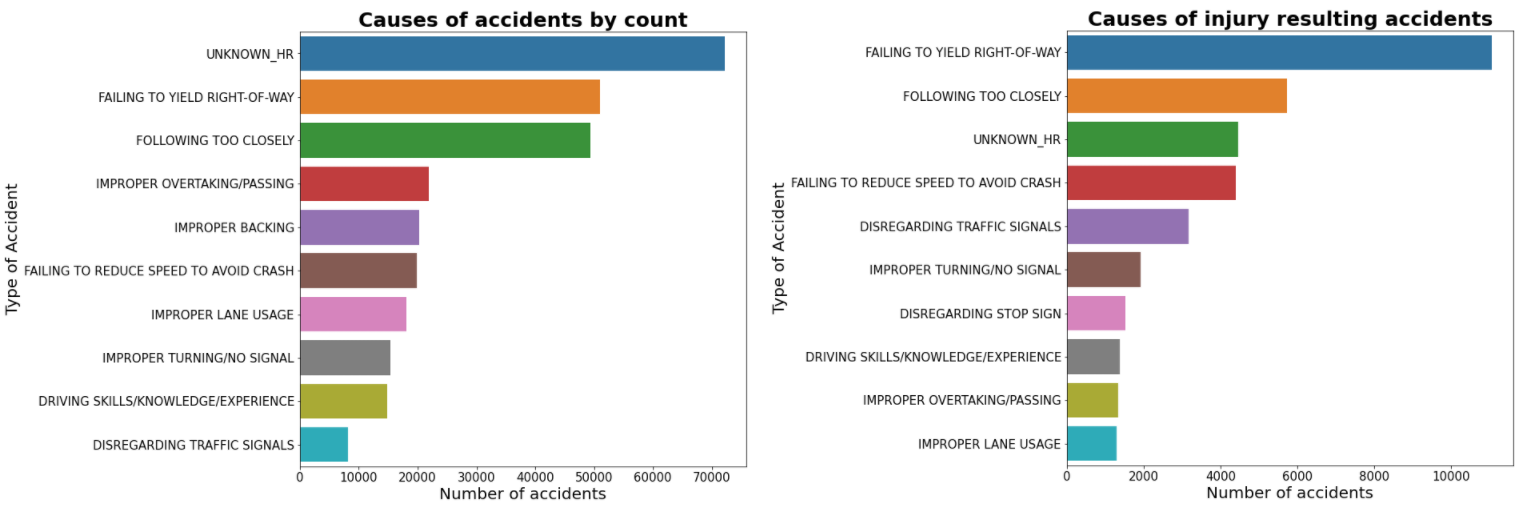
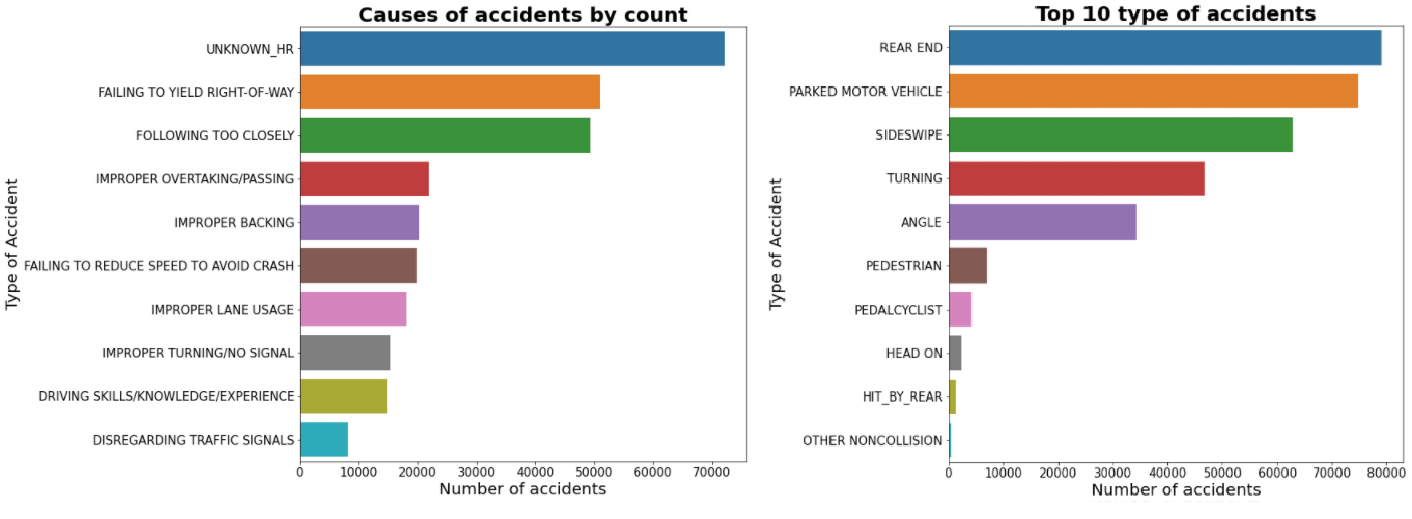
update readme, add images, update barplot annotation

Changed region(s): [[0.4986, 0.0, 0.9972, 0.9557], [0.0, 0.0, 0.5297, 0.9557]]

diff --git a/README.md b/README.md
@@ -1,13 +1,23 @@
 # Introduction:
 In 2017, there were 311,679 motor vehicles accidents in Chicago, Illinois. Out of these about 21.5 % resulted in injuries. Due to the rise in injury-resulting accidents in the state of Illinois, the Department of Transportation wants to take necessary measures to make the roads safer for all motorists. 
-<br/> **The goal** of this analysis is to help the Department of Transportation with meaningful insights so they can take the necessary measures needed to reduce hit and run accidents and make the roads safer for its residents. Additionally, we will build a classification model to help identify hit and run accidents that resulted in injuries.
+<br/> **The goal** of this analysis is to help the Department of Transportation with meaningful insights so they can take the necessary measures needed to reduce hit and run accidents and make the roads safer for its residents. Additionally, I will build a classification model to help identify hit and run accidents that resulted in injuries.
 
 # Data:
-The data came from the traffic crashes data set that's available to the public on the [Chicago Data Portal](https://data.cityofchicago.org/). The dataset contains all traffic crashes that were reported by the police within the city limits, going back to 2013. The data set also has a persons component that was not used in this project. The Traffic Crashes dataset contains a number of features related to the accident (49 to be exact). Unusable administrative data such as CRASH_RECORD_ID','RD_NO', etc. was eliminated. Some features such as secondary cause , lane count,etc were either dropped or consolidated based on the information provided by other columns. The data was narrowed down to 23 features that resulting in about 90000 accidents. The causes that accounted for less than 1% of the data such as train accidents were also removed. Hit and Run accidents that were listed as unknowns were consoldiated as hit and run unknowns. Lastly the data was filtered down to injury-resulting accidents, which resulted in about 50000 accidents. The data required minor cleaning before proceeding to modelling.
+The data came from the traffic crashes data set that's available to the public on the [Chicago Data Portal](https://data.cityofchicago.org/). The dataset contains all traffic crashes that were reported by the police within the city limits, going back to 2013. The data set also has a persons component that was not used in this project. The Traffic Crashes dataset contains a number of features related to the accident (49 to be exact). Unusable administrative data such as CRASH RECORD ID','RD NO', etc. was eliminated. Some features such as "SECONDARY CAUSE" ,"TRAFFICWAY TYPE",etc were consolidated based on the information provided by other columns. The data was narrowed down to 23 features that resulting in about 90000 accidents. The causes that accounted for less than 1% of the data such as train accidents were also removed. Hit and Run accidents that were listed as unknowns were labelled as hit and run unknowns. Lastly the data was filtered down to injury-resulting accidents, which resulted in about 50000 accidents. The data required minor cleaning before proceeding to modelling.
 
 # Data Exploration:
 Some of the main observations and supporting visuals are as follows: 
-I first wanted to look at most occuring crash type and most occuring primary casue . The leading causes will be helpful inormation for the city to take appropriate  measures. The top 5 crash types accounted for 95% of the accidents and the top 5 causes accounted for more than 50% of the accidents. Hit and Run was the top occuring reason and failing to yield right of way was the most occuring type for injuries .In addition, I tooked at the occurence of hit and run accidents and injury resulting accidents by location and by the time of the day and there was no obvious pattern. Both followed the same pattern as the other accidents which was during peak commuter hours which makes sense because A higher number of cars on the road result in a higher number of accidents . Roads with posted speed limit of 30 mphhad the most injury resulting accidents (about 75%).
+
+![alt text](Images/injury_tesulting.png)
+
+I first wanted to look at most occuring crash type and most occuring primary cause of accidents in Chicago . The top 10 causes of accidents accounted for about 93% of the accidents. As seen in the graph above, Hit and Run was the highest cause of  accidents  accounting for nearly 23% of them. Rear end accidents were the most occuring type of accidents. 
+Next I wanted to see 
+
+<br/> Considering Hit and Run accidents was the most ooccuring cause and among the top 3 to result in injuries. I focused the remainder of this analysis on traffic accidents that resulted in injuries. I first looked at the breakdown of types of injuries as seen below:
+
+![alt text](Images/injury_breakdown.png)
+Failing to yield right-of-way had the highest proportion of injury resulting instances. 
+I tooked at the occurence of hit and run accidents and injury resulting accidents by location and by the time of the day and there was no obvious pattern. Both followed the same pattern as the other accidents which was during peak commuter hours which makes sense because a higher number of cars on the road result in a higher number of accidents . Roads with posted speed limit of 30 mphhad the most injury resulting accidents (about 75%).
 
 # Data Modeling:
 I Used a decision tree classifier to model and classify hit and run injury resulting accidents. There was some imbalance in classes as only about a fourth of the accidents were hit and run cases so i had to generate some synthetic data. I eliminated irrelevant features recursively from 21 to 19 and i was able to get the accuracy to 72%. Tuning the hyperparameter of the classifier I was able get the accuracy upto 79% . I further used meta estimators like random forests and bagging classifier and got the accuracy upto about 85%. 
